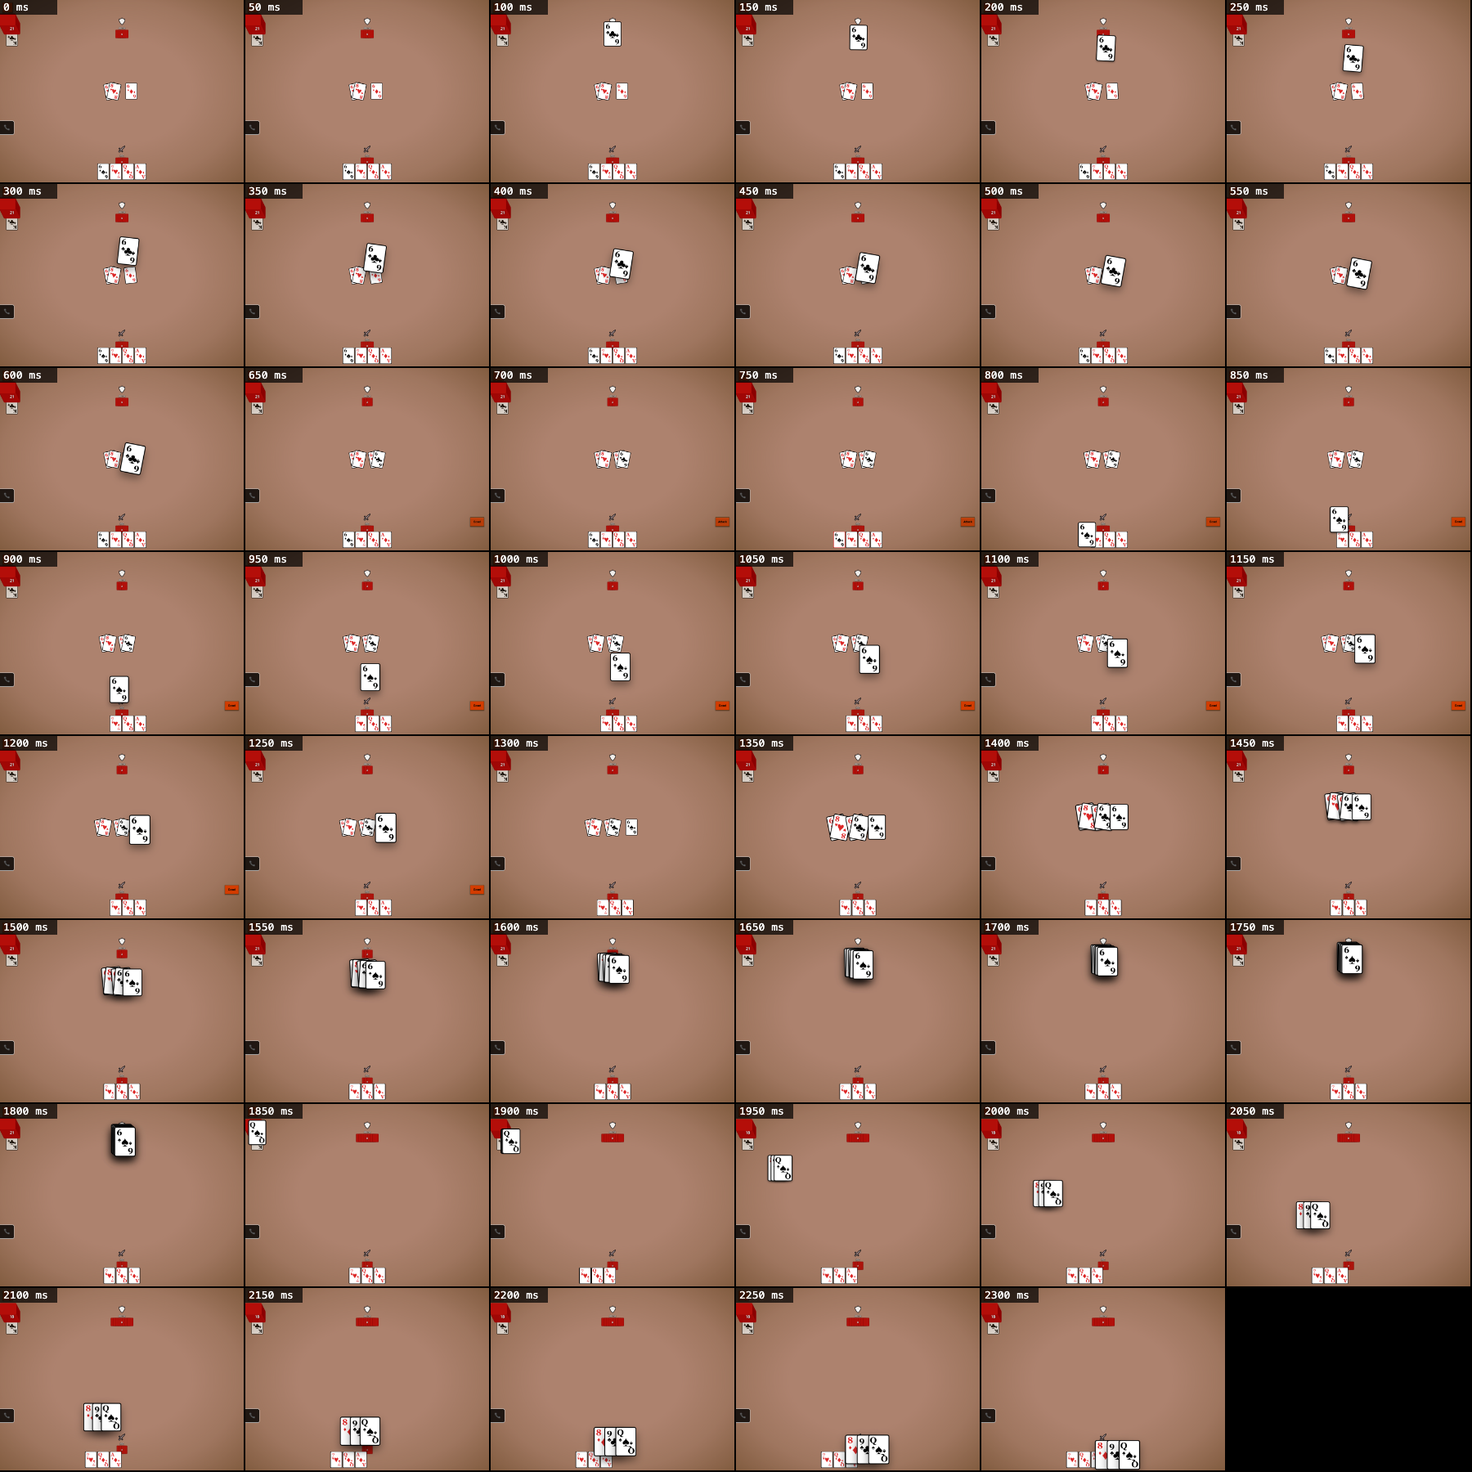
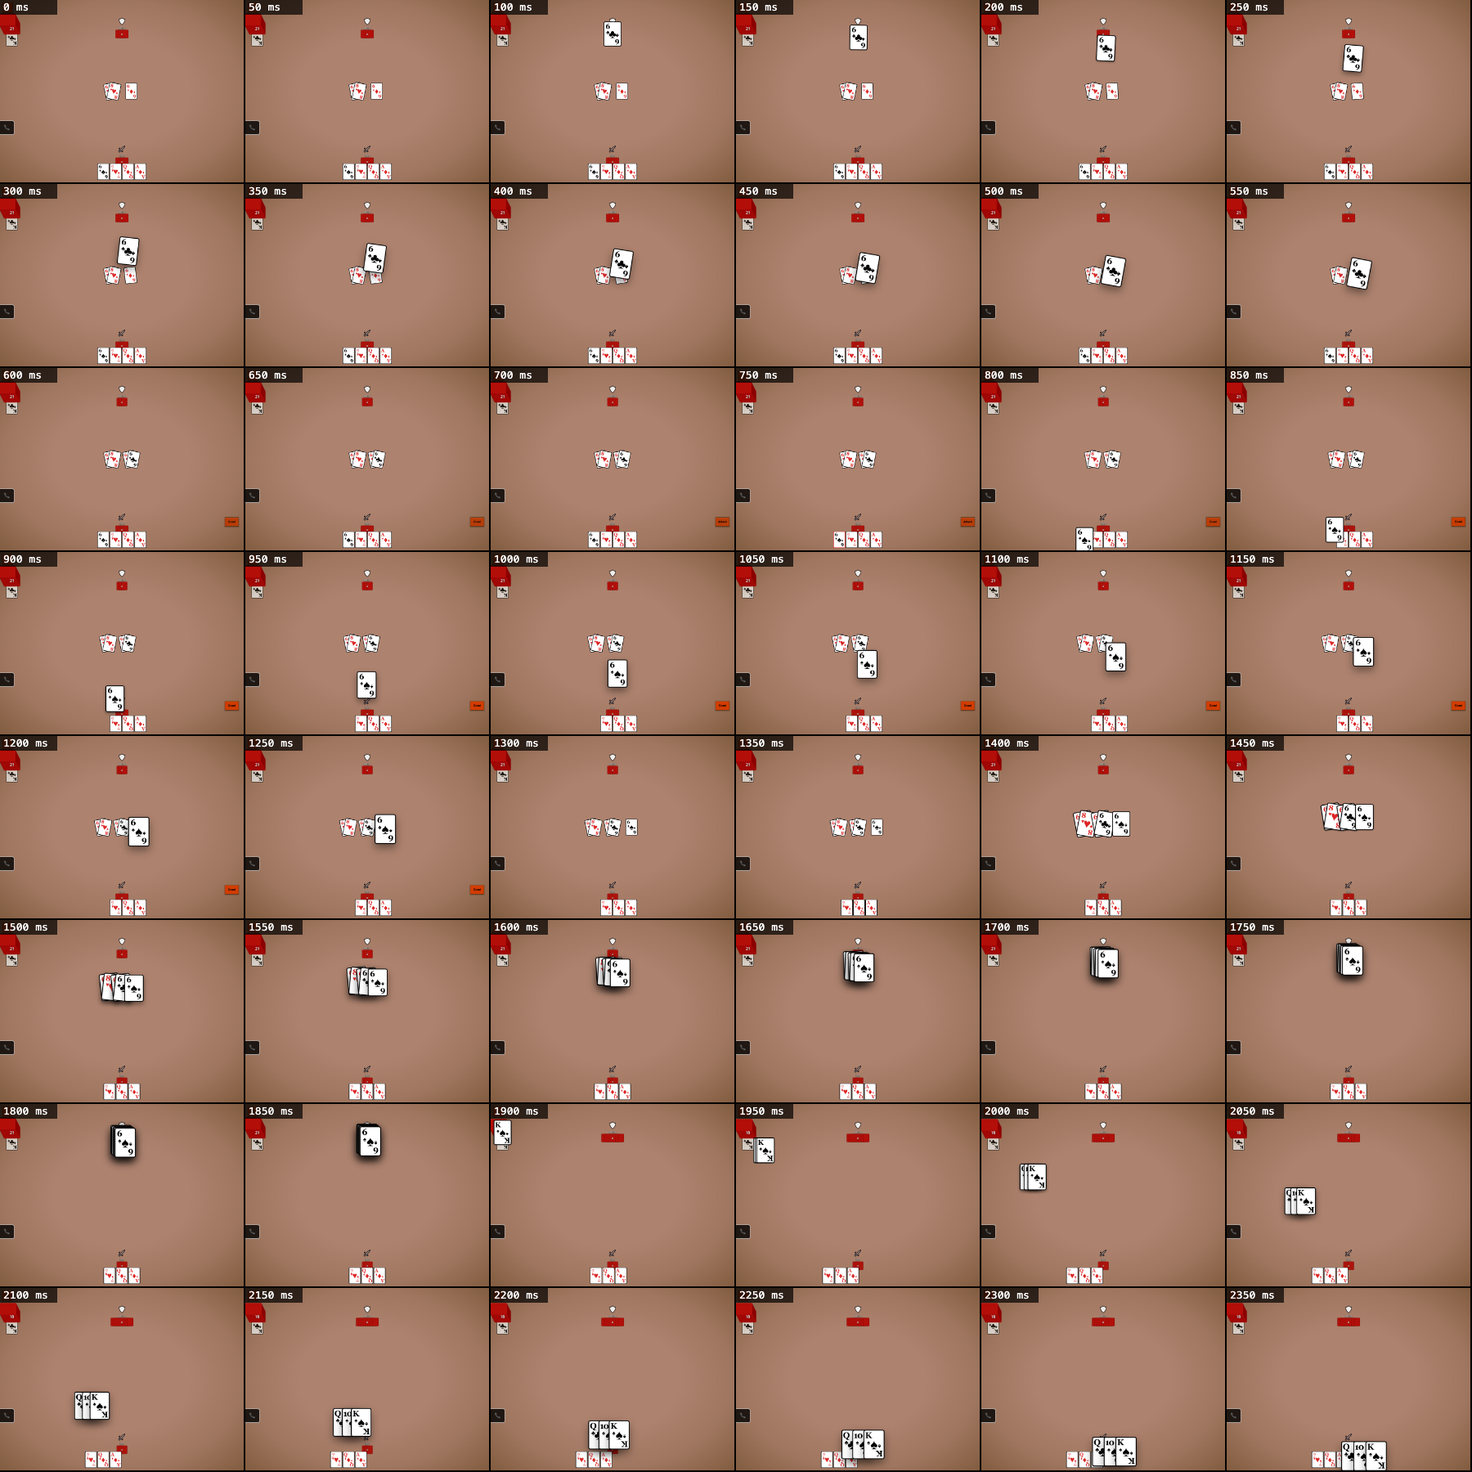
cdom_poc animations 5: the role hand-off (roleFlightsBetween, RoleFlightsLayer): the shield and the opener's sword fly as ghosts on the 400 ms arc (lift 56 px, scale 1 + 0.45 lift, a whole spin, drop shadow, the flights' curve, 25 ms arm, 60 Hz frame cap), the seat left blanks (a pass's old defender

diff --git a/foolish/c/cdom_poc/src/table_app.c b/foolish/c/cdom_poc/src/table_app.c
@@ -63,6 +63,15 @@ static struct {
   int flight_ms;                  /* the beat in the air's duration */
 } SHOW;
 static int veiled(uint64_t set, int cid) { return (int)((set >> cid) & 1); }
+static cd_id container, bg_wool; /* the table's root, and the wool behind it */
+
+/* The centre of a node as drawn now (cdom's cd_rect: the browser lays out first if it must). */
+static void centre_of(cd_id id, double *x, double *y) {
+  double r[4];
+  cd_rect(id, r);
+  *x = r[0] + r[2] / 2;
+  *y = r[1] + r[3] / 2;
+}
 
 static const char *const SEAT_NAME[] = {"Me", "Anna"};
 static const char *const SEAT_ID[] = {"u-me-0000", "u-anna-0001"};
@@ -778,7 +787,8 @@ typedef struct {
   /* the coin (roleMotion.ts): the mark it is turning to, the face it turns from, when it started
    * (< 0: at rest), and the width it was last drawn at */
   int target, coin_from;
-  double coin_t0, coin_scale;
+  double coin_t0, coin_delay, coin_scale;
+  int departing, arriving; /* a ghost carries this seat's mark away, or brings one here */
 } SeatUI;
 static SeatUI seat_ui[MAX_PLAYERS];
 static int n_seats;
@@ -807,11 +817,12 @@ static int mark_of(const TableView *v, int seat) { return worn(roles_of(v), v->n
  * as that step opens (anim_goods_cleared, anim_pass_hand_off), and everything else at the closing
  * beat, once the run has landed (the board's own roles again). With no run the board's roles are
  * shown as they come (a bystander's write, anim_shown_ledger_allows). */
-static struct { AnimRoles roles; int open, known; } SHOWN_ROLES;
+static struct { AnimRoles roles; int open, known, still; } SHOWN_ROLES; /* still: change in place, nothing flies */
 static void roles_set(AnimRoles r, int open) {
   SHOWN_ROLES.roles = r;
   SHOWN_ROLES.open = open;
   SHOWN_ROLES.known = 1;
+  SHOWN_ROLES.still = 0;
 }
 
 #define SWORD_PATH "M12 1.2 L13.6 5.5 L13.6 14.3 L18 14.3 L18 16.6 L13.1 16.6 L13.1 19.6 L10.9 19.6 L10.9 16.6 L6 16.6 L6 14.3 L10.4 14.3 L10.4 5.5 Z"
@@ -936,6 +947,7 @@ static void seats_build(void) {
     u->mark = u->target = -1;
     u->coin_t0 = -1;
     u->coin_scale = 1;
+    u->departing = u->arriving = 0;
     u->count = 0;
     u->lift = seat_lift(s);
     cd_region_show(&u->seat, 1);
@@ -982,20 +994,32 @@ static void face_draw(SeatUI *u, int mark) {
 enum { RAF_COIN = 4 };
 static int coins_turning;
 
-static void coin_start(SeatUI *u, int to) {
-  u->coin_from = u->mark; /* from the face drawn now, whatever a turn left it at */
+/* A seat's coin turns from one face to another (MARK_NONE: a half flip), the old face held for
+ * `delay` ms first (roleMotion.ts RoleCoinPhase). */
+static void coin_play(SeatUI *u, int from, int to, double delay) {
+  u->coin_from = from;
   u->target = to;
   u->coin_t0 = cd_now();
+  u->coin_delay = delay;
   if (!coins_turning) cd_raf_request(RAF_COIN);
   coins_turning = 1;
+}
+
+/* A seat's coin stands at a face, at once (the hand-off's swaps: RoleCoin.tsx stand). */
+static void coin_stand(SeatUI *u, int mark) {
+  u->coin_t0 = -1;
+  u->target = mark;
+  face_draw(u, mark);
+  if (u->coin_scale != 1) { cd_set_style(u->role, ZS("transform"), ZS("scaleX(1)")); u->coin_scale = 1; }
 }
 
 /* One frame of a seat's coin; 1 while it is still turning. */
 static int coin_frame(SeatUI *u, double now) {
   if (u->coin_t0 < 0) return 0;
-  double t = now - u->coin_t0, scale = 1;
+  double t = now - u->coin_t0 - u->coin_delay, scale = 1;
   int face = u->target, from = u->coin_from == MARK_NONE ? -1 : u->coin_from, to = u->target == MARK_NONE ? -1 : u->target, turning = 1;
-  if (from >= 0 && t < ROLE_FLIP_HALF_MS) {
+  if (t < 0) face = u->coin_from;
+  else if (from >= 0 && t < ROLE_FLIP_HALF_MS) {
     face = from;
     scale = t < ROLE_FLIP_COLLAPSE_MS ? cos(t / ROLE_FLIP_COLLAPSE_MS * M_PI / 2) : ROLE_EDGE_ON;
   } else {
@@ -1015,22 +1039,170 @@ static int coin_frame(SeatUI *u, double now) {
   return turning;
 }
 
+/* ---- the hand-off (roleLedger.ts roleFlightsBetween, RoleFlightsLayer.tsx) ----------------------
+ * The shield and the opener's sword are the two marks that belong to a seat and then to another,
+ * so they fly when they change hands: a ghost of the mark on a quadratic arc lifted toward the top
+ * of the board (by up to 56 px), growing and casting a shadow as it lifts, spinning one whole
+ * turn, over ROLE_FLIGHT_MS (0.8 of a card's flight) on the flights' curve, armed 25 ms after it is
+ * drawn and stepped at most a 60 Hz frame at a time. The seat it leaves blanks at once (a pass's
+ * old defender then turns its sword in a third of the way along); the seat it flies to turns its
+ * own mark away to be edge-on as it lands, and stands the real mark up in the frame it lands. */
+#define ROLE_FLIGHT_MS (ANIM_TIME_MS * 0.8)
+#define ROLE_MAKE_WAY_DELAY_MS (ROLE_FLIGHT_MS - ROLE_FLIP_HALF_MS)
+#define ROLE_PASS_SWORD_DELAY_MS (ROLE_FLIGHT_MS / 3)
+#define ROLE_FRAME_CAP_MS (1000.0 / 60)
+#define ROLE_FLIGHT_ARM_MS 25
+static cd_region ghosts;
+static struct { cd_id node; double fx, fy, tx, ty, elapsed, last; int to_seat; } ghost[2];
+static int n_ghosts, ghosts_landed;
+static uint32_t handoffs; /* for the tests */
+static AnimRoles roles_drawn;
+static int roles_drawn_known;
+
+/* The cubic-bezier(0.25, 0.46, 0.45, 0.94) of time t (roleMotion.ts roleFlightEase: Newton on x). */
+static double role_ease(double t) {
+  if (t <= 0) return 0;
+  if (t >= 1) return 1;
+  double u = t;
+  for (int i = 0; i < 8; i++) {
+    double x = 3 * 0.25 * u * (1 - u) * (1 - u) + 3 * 0.45 * u * u * (1 - u) + u * u * u - t;
+    double d = 3 * 0.25 * (1 - 4 * u + 3 * u * u) + 3 * 0.45 * (2 * u - 3 * u * u) + 3 * u * u;
+    if (__builtin_fabs(d) < 1e-6) break;
+    u -= x / d;
+    u = u < 0 ? 0 : u > 1 ? 1 : u;
+  }
+  return 3 * 0.46 * u * (1 - u) * (1 - u) + 3 * 0.94 * u * u * (1 - u) + u * u * u;
+}
+
+/* A ghost at progress p (eased): on the arc, grown and shadowed by its lift, turned spin * p. */
+static void ghost_draw(int g, double p) {
+  double dx = ghost[g].tx - ghost[g].fx, dy = ghost[g].ty - ghost[g].fy, dist = sqrt(dx * dx + dy * dy);
+  double cx = (ghost[g].fx + ghost[g].tx) / 2, cy = (ghost[g].fy + ghost[g].ty) / 2 - (dist * 0.28 < 56 ? dist * 0.28 : 56);
+  double q = 1 - p, lift = 1 - __builtin_fabs(p - 0.5) * 2;
+  cd_set_style_num(ghost[g].node, ZS("left"), q * q * ghost[g].fx + 2 * q * p * cx + p * p * ghost[g].tx, CD_UNIT_PX);
+  cd_set_style_num(ghost[g].node, ZS("top"), q * q * ghost[g].fy + 2 * q * p * cy + p * p * ghost[g].ty, CD_UNIT_PX);
+  static SB s;
+  sb_reset(&s);
+  sb_s(&s, "translate(-50%, -50%) rotate("); sb_num(&s, 360 * p, CD_UNIT_DEG);
+  sb_s(&s, ") scale("); sb_num(&s, 1 + 0.45 * lift, CD_UNIT_NONE); sb_s(&s, ")");
+  cd_set_style(ghost[g].node, ZS("transform"), sb_tmp(&s));
+  sb_reset(&s);
+  sb_s(&s, "drop-shadow(0 "); sb_num(&s, 6 * lift, CD_UNIT_PX); sb_s(&s, " "); sb_num(&s, 8 * lift, CD_UNIT_PX);
+  sb_s(&s, " rgba(0,0,0,"); sb_num(&s, 0.45 * lift, CD_UNIT_NONE); sb_s(&s, "))");
+  cd_set_style(ghost[g].node, ZS("filter"), sb_tmp(&s));
+}
+
+/* The roles drawn change from `was` to `now`: each mark that changed hands flies (both seats must
+ * be on screen), and the two seats of each flight are told. */
+static void handoff_start(AnimRoles was, AnimRoles now) {
+  int from[2], to[2], kind[2], n = 0;
+  if (was.defender != now.defender && was.defender >= 0 && now.defender >= 0 && was.defender < n_seats && now.defender < n_seats) {
+    from[n] = was.defender; to[n] = now.defender; kind[n++] = MARK_SHIELD;
+  }
+  if (was.first_attacker != now.first_attacker && was.first_attacker >= 0 && now.first_attacker >= 0
+      && was.first_attacker < n_seats && now.first_attacker < n_seats) {
+    from[n] = was.first_attacker; to[n] = now.first_attacker; kind[n++] = MARK_LEAD;
+  }
+  if (!n) return;
+  cd_region_hide(&ghosts); /* a hand-off still in the air is overtaken: its seats stand */
+  for (int g = 0; g < n_ghosts; g++) seat_ui[ghost[g].to_seat].arriving = 0;
+  for (int k = 0; k < n_seats; k++) seat_ui[k].departing = 0;
+  cd_region_show(&ghosts, 1);
+  cd_at(container, 0);
+  OPEN("div"); cd_name_open(ghosts.root);
+  STYLE("position: fixed; top: 0px; left: 0px; width: 100%; height: 100%; pointer-events: none; z-index: 10001; user-select: none;");
+  for (int g = 0; g < n; g++) {
+    double fx, fy, tx, ty;
+    centre_of(seat_ui[from[g]].role, &fx, &fy);
+    centre_of(seat_ui[to[g]].role, &tx, &ty);
+    ghost[g] = (typeof(ghost[g])){cd_id_new(), fx, fy, tx, ty, 0, -1, to[g]};
+    OPEN("div"); cd_name_open(ghost[g].node);
+    cd_attr(ZS("data-role-flight"), kind[g] == MARK_SHIELD ? ZS("shield") : ZS("sword"));
+    static SB st;
+    sb_reset(&st);
+    sb_s(&st, "position: absolute; "); sb_px(&st, "left: ", fx); sb_px(&st, "top: ", fy);
+    sb_s(&st, "transform: translate(-50%, -50%); line-height: 0; will-change: transform, left, top;");
+    cd_attr(S_STYLE, sb_tmp(&st));
+    mark_emit(kind[g]);
+    CLOSE();
+  }
+  CLOSE();
+  cd_region_end(&ghosts);
+  n_ghosts = n;
+  ghosts_landed = 0;
+  handoffs++;
+  int coming[MAX_PLAYERS] = {0}; /* the kind flying to each seat */
+  for (int g = 0; g < n; g++) { seat_ui[from[g]].departing = 1; seat_ui[to[g]].arriving = 1; coming[to[g]] = kind[g]; }
+  for (int k = 0; k < n_seats; k++) { /* RoleCoin.tsx advance, the seat's two flags read together */
+    SeatUI *u = &seat_ui[k];
+    if (u->departing) { /* the ghost is this seat's mark now: blank at once; a pass's old defender turns its sword in */
+      int t = u->arriving ? MARK_NONE : worn(now, SHOWN_ROLES.open, V, k);
+      coin_stand(u, MARK_NONE);
+      if (t != MARK_NONE) coin_play(u, MARK_NONE, t, ROLE_PASS_SWORD_DELAY_MS);
+    } else if (u->arriving) { /* what it wears turns away, edge-on as the ghost lands */
+      int wearing = u->coin_t0 >= 0 ? (u->target == coming[k] ? u->coin_from : u->target) : u->mark;
+      coin_stand(u, wearing);
+      if (wearing != MARK_NONE) coin_play(u, wearing, MARK_NONE, ROLE_MAKE_WAY_DELAY_MS);
+    }
+  }
+  if (!coins_turning) cd_raf_request(RAF_COIN);
+  coins_turning = 1;
+}
+
+/* One frame of the ghosts; 1 while one is still in the air. When all have landed they go, and the
+ * seats they flew to stand their marks up in the same frame. */
+static int ghosts_frame(double now) {
+  if (!n_ghosts) return 0;
+  for (int g = 0; g < n_ghosts; g++) {
+    if (ghost[g].last >= 0) {
+      double dt = now - ghost[g].last;
+      ghost[g].elapsed += dt < 0 ? 0 : dt > ROLE_FRAME_CAP_MS ? ROLE_FRAME_CAP_MS : dt;
+    }
+    ghost[g].last = now;
+    double since = ghost[g].elapsed - ROLE_FLIGHT_ARM_MS, p = since <= 0 ? 0 : since / ROLE_FLIGHT_MS;
+    ghost_draw(g, role_ease(p > 1 ? 1 : p));
+    if (p >= 1 && !(ghosts_landed >> g & 1)) ghosts_landed |= 1 << g;
+  }
+  if (ghosts_landed != (1 << n_ghosts) - 1) return 1;
+  cd_region_hide(&ghosts);
+  for (int g = 0; g < n_ghosts; g++) {
+    SeatUI *a = &seat_ui[ghost[g].to_seat];
+    a->arriving = 0;
+    coin_stand(a, worn(SHOWN_ROLES.roles, SHOWN_ROLES.open, V, ghost[g].to_seat));
+  }
+  for (int k = 0; k < n_seats; k++) seat_ui[k].departing = 0;
+  n_ghosts = 0;
+  return 0;
+}
+
 static void coins_frame(void) {
   double now = cd_now();
-  int any = 0;
+  int any = ghosts_frame(now);
   for (int s = 0; s < n_seats; s++) any |= coin_frame(&seat_ui[s], now);
   coins_turning = any;
   if (any) cd_raf_request(RAF_COIN);
 }
 
 static void render_seats(void) {
-  if (n_seats != V->num_players) seats_build();
+  if (n_seats != V->num_players) { seats_build(); roles_drawn_known = 0; }
+  if (SHOWN_ROLES.known) {
+    AnimRoles r = SHOWN_ROLES.roles;
+    if (roles_drawn_known && !SHOWN_ROLES.still && (r.defender != roles_drawn.defender || r.first_attacker != roles_drawn.first_attacker))
+      handoff_start(roles_drawn, r);
+    roles_drawn = r;
+    roles_drawn_known = 1;
+  }
   for (int s = 0; s < n_seats; s++) {
     SeatUI *u = &seat_ui[s];
     if (seat_lift(s) != u->lift) { u->lift = seat_lift(s); cd_set_style(u->seat.root, ZS("transform"), seat_transform(s)); }
     int mark = worn(SHOWN_ROLES.roles, SHOWN_ROLES.open, V, s);
     if (u->mark < 0) { u->target = mark; face_draw(u, mark); } /* a new ring: drawn as it is */
-    else if (mark != u->target) coin_start(u, mark);
+    else if (!u->arriving && !u->departing && mark != u->target) {
+      /* nothing flies here: the ordinary gesture between two marks (resolveGesture) */
+      int resting = u->coin_t0 >= 0 ? u->coin_from : u->mark;
+      if (resting == mark) coin_stand(u, mark); /* the mark came back: put it back */
+      else coin_play(u, resting, mark, 0);
+    }
     int n = s == V->my_seat ? V->my_hand_count : V->seats[s].hand_count;
     if (n != u->count) {
       u->count = n;
@@ -1111,7 +1283,6 @@ enum { TIMER_TEX = 2, TIMER_BOT_GO = 3, TIMER_SAVE_RETRY = 4, TIMER_BOT_BASE = 1
 enum { RAF_SLICE = 0, RAF_PAINTED = 1, RAF_PAINTED2 = 2, RAF_ANIM = 3 };
 enum { RUN_ROOM = MAX_SNAPS }; /* the most steps one operation adds (one per hook) */
 
-static cd_id container, bg_wool;
 static RunStep run[ANIM_MAX_STEPS];
 static TableView run_pre;      /* what shows until step 0 lands: the board the run started on */
 static AnimPlanAsk ASK;
@@ -1340,13 +1511,6 @@ static void flights_arm(uint32_t gen) {
   }
 }
 
-/* The centre of a node as drawn now. */
-static void centre_of(cd_id id, double *x, double *y) {
-  double r[4];
-  cd_rect(id, r);
-  *x = r[0] + r[2] / 2;
-  *y = r[1] + r[3] / 2;
-}
 
 /* A card on the table: its face and the tilt it lies at (a cover across, the attack under it the
  * other way: flightGeometry.ts tableTilt); 0 when the row does not hold it. */
@@ -1496,7 +1660,10 @@ static void render_board(void) {
     V = &CT.view;
   }
   run_show();
-  if (anim_shown_ledger_allows(ANIM_CLAIM_BYSTANDER, run_on())) roles_set(roles_of(V), V->num_battles > 0);
+  if (anim_shown_ledger_allows(ANIM_CLAIM_BYSTANDER, run_on())) {
+    roles_set(roles_of(V), V->num_battles > 0);
+    SHOWN_ROLES.still = V->status == GAME_STATUS_GAME_OVER; /* a finished board's marks fly nowhere (syncFromView) */
+  }
   client_view_rules(V, SHOW.from_deck, SHOW.to_flipped, SHOW.trump_out, &R);
   render_deck();
   render_discard();
@@ -1803,6 +1970,7 @@ EXPORT("app_bot_steps") uint32_t app_bot_steps(void) { return bot_steps; }
  * flights were made on this load; the run's step count, and step k's type, start and duration (the
  * kernel's plan). */
 EXPORT("app_anim_busy") int32_t app_anim_busy(void) { return run_on() || coins_turning; }
+EXPORT("app_anim_handoffs") uint32_t app_anim_handoffs(void) { return handoffs; } /* role marks thrown seat to seat */
 EXPORT("app_anim_runs") uint32_t app_anim_runs(void) { return runs_started; }
 EXPORT("app_anim_flights") int32_t app_anim_flights(void) { return flights_made; }
 EXPORT("app_anim_steps") int32_t app_anim_steps(void) { return run_n; }

diff --git a/foolish/c/cdom_poc/tools/mutate.py b/foolish/c/cdom_poc/tools/mutate.py
@@ -31,11 +31,11 @@ MUTANTS = [
   ('not canonical between operations', 'src/game_keep.c', 'void game_keep_canonical(Game *g) { state_canonical(g); }', 'void game_keep_canonical(Game *g) { (void)g; }', 'out/blob_test'),
   ('a drop that is no move spends the selection', 'src/table_app.c', '  if (!nsel || ask_play(target, &p) != CLIENT_OK || p.move_type < 0) return;\n  nsel = 0;', '  if (!nsel || ask_play(target, &p) != CLIENT_OK) return;\n  nsel = 0;\n  if (p.move_type < 0) return;', 'tools/test.mjs', 'React'),
   ('the bot not scheduled at the start', 'src/table_app.c', '  mark_shown();\n  bot_check();\n  render();\n}', '  mark_shown();\n  render();\n}', 'tools/test.mjs', 'golden|kernel says'),
-  ('the bot at the port\'s old 650 ms', 'src/table_app.c', '  last_wait = bot_wait_ms(&G, game_human_mask(&G), (int64_t)shown_ms, (int64_t)settles_ms(), now);', '  last_wait = (int64_t)settles_ms() + 650 > now ? (int)((int64_t)settles_ms() + 650 - now) : 0;', 'tools/test.mjs', 'kernel says'),
+  ('the bot at the port\'s old 650 ms', 'src/table_app.c', '  last_wait = bot_wait_ms(&G, game_human_mask(&G), (int64_t)shown_ms, (int64_t)settles, now);', '  last_wait = (int64_t)settles + 650 > now ? (int)((int64_t)settles + 650 - now) : 0;', 'tools/test.mjs', 'kernel says'),
   ('the bot not asked again when its timer fires', 'src/table_app.c', '  if (w > 0) { cd_timer_start(w, TIMER_BOT_BASE + bot_gen); return; }', '  (void)w;', 'tools/test.mjs', 'kernel says'),
   ('the end rows not the kernel\'s finish order', 'src/table_app.c', '    for (int i = 0; i < n; i++) if (rows[i].place == place) result_row(place, n, rows[i].seat);', '    for (int i = 0; i < n; i++) if (rows[i].place == place) result_row(place, n, rows[n - 1 - i].seat);', 'tools/test.mjs', 'React'),
   ('no (You) on my row', 'src/table_app.c', '  if (seat == ME) { OPEN("span"); CLASS("result-card__you");', '  if (0) { OPEN("span"); CLASS("result-card__you");', 'tools/test.mjs', 'React'),
-  ('the game not kept after a bot step', 'src/table_app.c', '  bot_drive(&G, game_human_mask(&G), BOT_DRIVE_MAX_ACTIONS, 0, 0, &out);\n  committed();', '  bot_drive(&G, game_human_mask(&G), BOT_DRIVE_MAX_ACTIONS, 0, 0, &out);\n  game_keep_canonical(&G);', 'tools/test.mjs', 'reload'),
+  ('the game not kept after a bot step', 'src/table_app.c', '  op_end(out.n ? out.actions[out.n - 1].seat : -1);\n  committed();', '  op_end(out.n ? out.actions[out.n - 1].seat : -1);\n  game_keep_canonical(&G);', 'tools/test.mjs', 'reload'),
   ('the stored game ignored', 'src/table_app.c', '  game_adopted = len > 0 && game_keep_load(&G, p, len);', '  game_adopted = 0;', 'tools/test.mjs', 'reload'),
   ('a failed save ignored', 'src/table_app.c', '  save_failed = !ok;\n', '  save_failed = 0;\n', 'tools/test.mjs', 'not silent'),
   ('a failed save not tried again', 'src/table_app.c', '  if (token == TIMER_SAVE_RETRY) { save_retry_pending = 0; game_save(); }', '', 'tools/test.mjs', 'not silent'),
@@ -53,11 +53,14 @@ MUTANTS = [
   ('the attack does not turn with its cover', 'src/table_app.c', '    if (e->type == EVW_T_COVER && e->has_target) SHOW.covering |= 1ull << card_to_id(e->target);', '', 'tools/test.mjs', 'cover flies'),
   ('my hand makes no room', 'src/table_app.c', '  hand_layout(&WEB_HAND, V->my_hand_count + SHOW.arriving, width, &HL);', '  hand_layout(&WEB_HAND, V->my_hand_count, width, &HL);', 'tools/test.mjs', 'cover flies'),
   ('a move during a run starts another', 'src/table_app.c', '  int was = run_on(), from = run_n;', '  int was = 0, from = run_n;', 'tools/test.mjs', 'joins it'),
-  ('no coin', 'src/table_app.c', '    else if (mark != u->target) coin_start(u, mark);', '    else if (mark != u->target) { u->target = mark; face_draw(u, mark); (void)coin_start; }', 'tools/test.mjs', 'sweep'),
-  ('the marks not frozen in a run', 'src/table_app.c', '  if (anim_shown_ledger_allows(ANIM_CLAIM_BYSTANDER, run_on())) roles_set(roles_of(V), V->num_battles > 0);', '  roles_set(roles_of(V), V->num_battles > 0);', 'tools/test.mjs', 'transfer'),
+  ('no coin', 'src/table_app.c', '      else coin_play(u, resting, mark, 0);', '      else coin_stand(u, mark);', 'tools/test.mjs', 'sweep'),
+  ('the marks not frozen in a run', 'src/table_app.c', '  if (anim_shown_ledger_allows(ANIM_CLAIM_BYSTANDER, run_on())) {', '  if (1) {', 'tools/test.mjs', 'transfer'),
   ('the good does not lead the stream', 'src/table_app.c', '    roles_set(opening, SHOWN_ROLES.open);', '    (void)opening;', 'tools/test.mjs', 'sweep'),
   ('the shield waits for the landing', 'src/table_app.c', '      && anim_pass_hand_off(SHOWN_ROLES.roles, 1u << e->seat, run_final.defender, &out)) roles_set(out, 1);', '      && anim_pass_hand_off(SHOWN_ROLES.roles, 1u << e->seat, run_final.defender, &out)) (void)out;', 'tools/test.mjs', 'transfer'),
   ('the trump drawn out of the stock', 'src/table_app.c', '    int trump = !card_is_none(st->trump_out) && st->trump_from == ANIM_LOC_FLIPPED;', '    int trump = 0;', 'tools/test.mjs', 'played out by clicks'),
+  ('no ghost: the marks change in place', 'src/table_app.c', '  if (!n) return;\n  cd_region_hide(&ghosts);', '  if (n < 99) return;\n  cd_region_hide(&ghosts);', 'tools/test.mjs', 'transfer'),
+  ('the seat a mark flies to does not make way', 'src/table_app.c', '      if (wearing != MARK_NONE) coin_play(u, wearing, MARK_NONE, ROLE_MAKE_WAY_DELAY_MS);', '', 'tools/test.mjs', 'transfer'),
+  ('the seat a mark leaves keeps it', 'src/table_app.c', '      coin_stand(u, MARK_NONE);\n      if (t != MARK_NONE) coin_play(u, MARK_NONE, t, ROLE_PASS_SWORD_DELAY_MS);', '      if (t != MARK_NONE) coin_play(u, u->mark, t, 0);', 'tools/test.mjs', 'transfer'),
   ('http body not sent', 'vendor/cdom.js', 'body: bodyLen ? copyBytes(bodyPtr, bodyLen) : undefined,', 'body: undefined,', 'tests/net_test.mjs'),
   # the network pass: each import the live contract test exists for, broken (tests/live_test.mjs, a local c_base)
   ('live: request headers not sent', 'vendor/cdom.js', 'headers: headerList(headersPtr, headersLen),', 'headers: [],', 'tests/live_test.mjs'),
